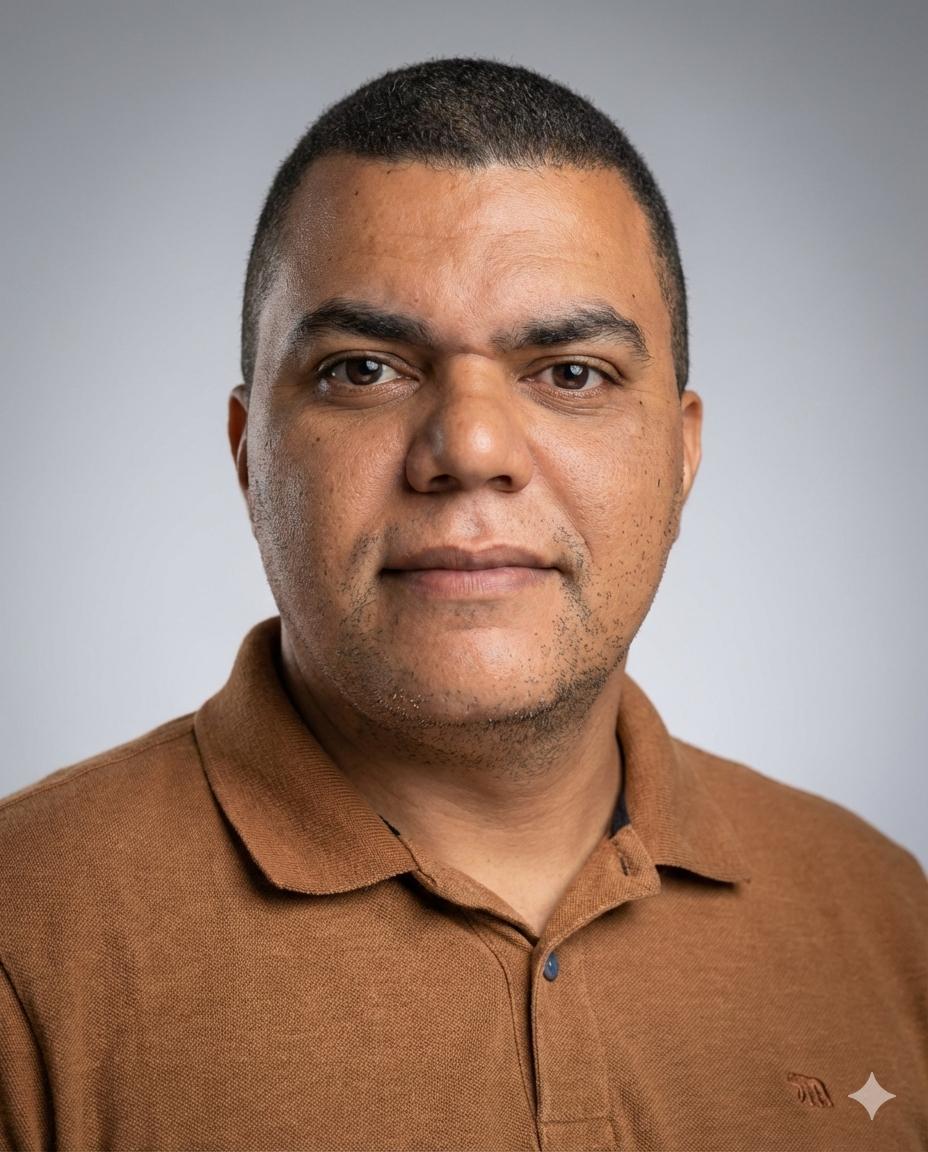
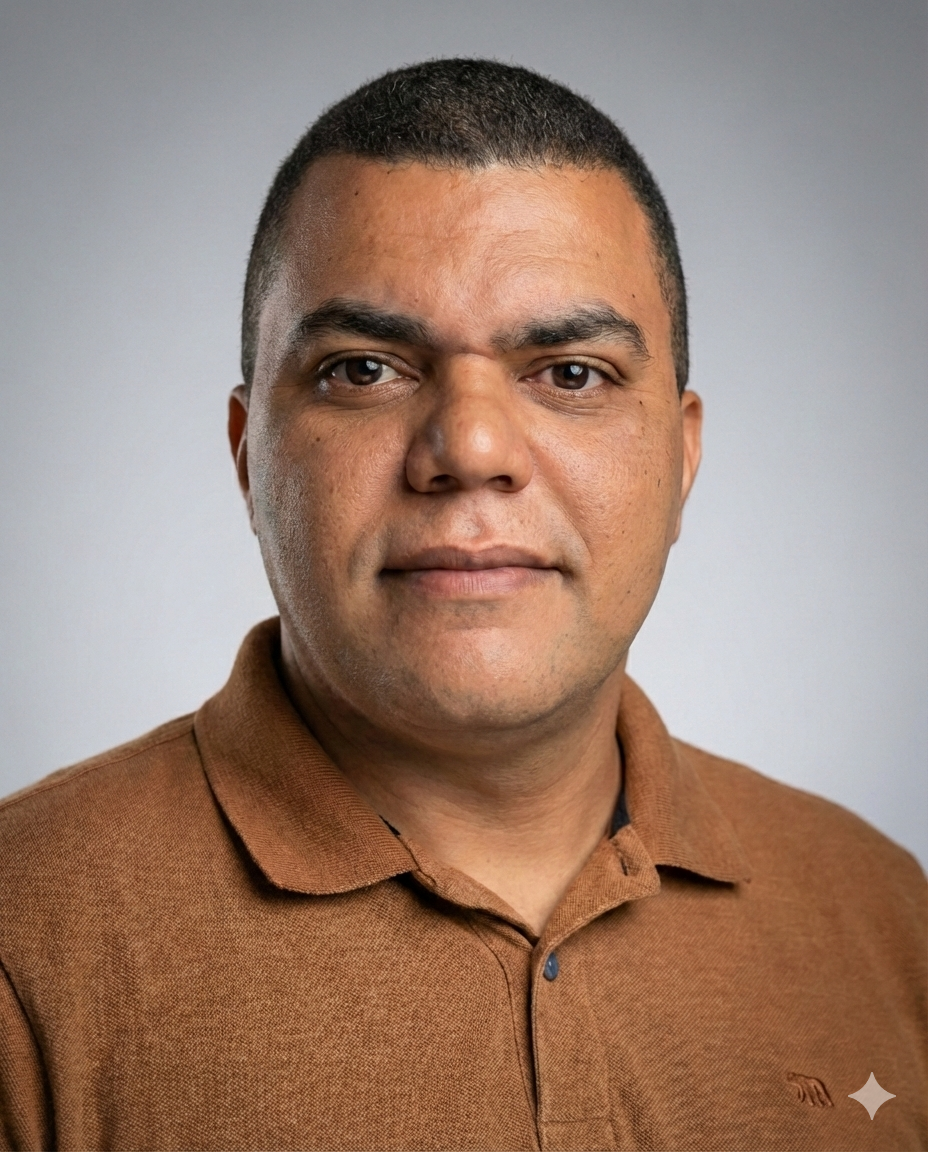
feat: Atualizando imagens perfil

diff --git a/docs/index.html b/docs/index.html
@@ -590,7 +590,7 @@
               </div>
               <div class="project-links">
                 <a
-                  href="https://github.com/rodrigodionizio/PoupeMais"
+                  href="https://rodrigodionizio.github.io/PoupeMais/"
                   target="_blank"
                   class="project-link"
                   >Ver Demo</a
@@ -635,7 +635,7 @@
               </div>
               <div class="project-links">
                 <a
-                  href="https://github.com/rodrigodionizio/calendario-liturgico-paroquial"
+                  href="https://rodrigodionizio.github.io/calendario-liturgico-paroquial/"
                   target="_blank"
                   class="project-link"
                   >Ver Demo</a
